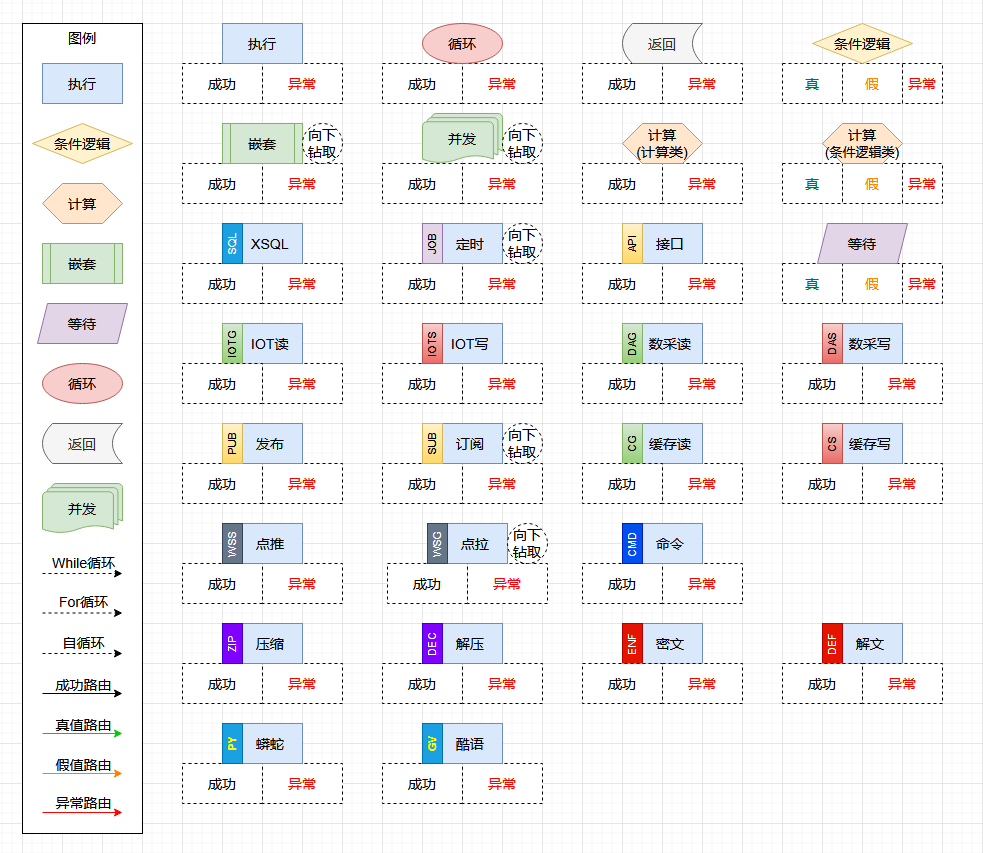
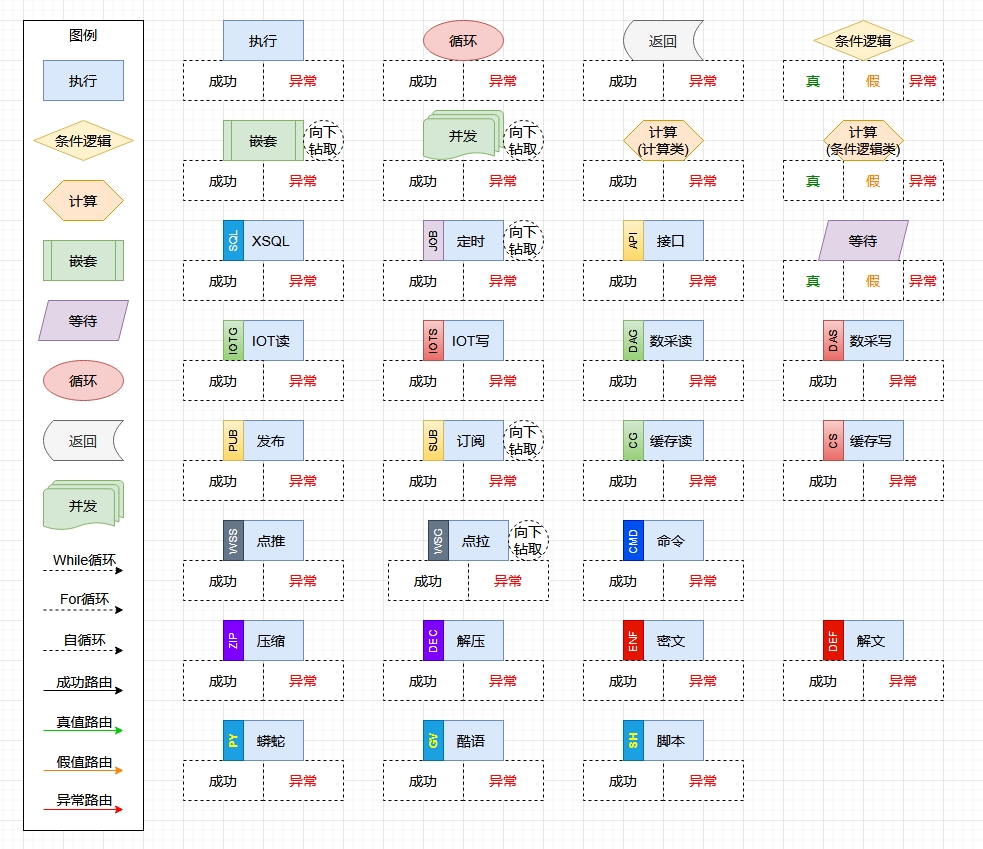
1.5.2
1. 添加：文档：SH脚本元素

diff --git a/README.md b/README.md
@@ -67,7 +67,7 @@
 概要说明
 ------
 
-    1. 13种编排元素（基本元素）。
+    1. 14种编排元素（基本元素）。
     
         1.1.  执行元素，配置及执行Java方法。可轻松扩展它，衍生成特定的业务元素。
     
@@ -93,7 +93,9 @@
         
         1.12. PY蟒蛇元素，在Java中嵌入Python代码。
         
-        1.13. GV酷语元素，在Java中嵌入Groovy代码。
+        1.13. GV酷语元素，在Java中嵌入Groovy代码。也可嵌入Java代码。
+        
+        1.14. SH脚本元素，在Java中嵌入Shell代码。可远程上传及下载文件。
         
     2. 15种衍生元素。
     
